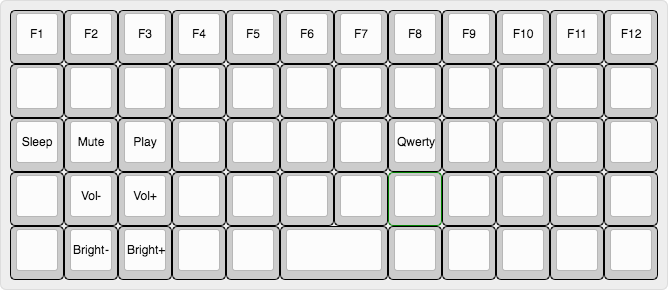
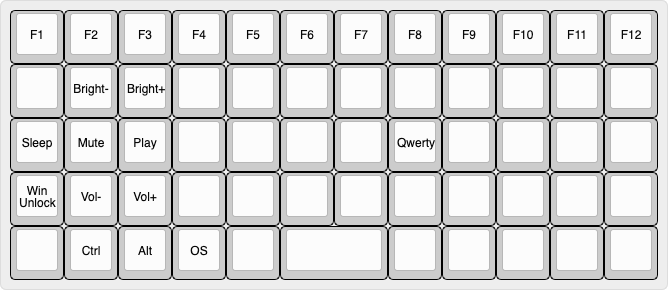
Update keymap

diff --git a/keyboards/preonic/keymaps/nhsieh/keymap.c b/keyboards/preonic/keymaps/nhsieh/keymap.c
@@ -58,19 +58,19 @@ const uint16_t PROGMEM keymaps[][MATRIX_ROWS][MATRIX_COLS] = {
  * |------+------+------+------+------+-------------+------+------+------+------+------|
  * | Del  |      |      |      |      |      |      |      |      |      |      | Bksp |
  * |------+------+------+------+------+-------------+------+------+------+------+------|
- * |      |      |      |      |      |      |      |      |      |      |      | Del  |
+ * | Ins  |      |      |      |      |      |      |      |      |      |      | Del  |
  * |------+------+------+------+------+------|------+------+------+------+------+------|
  * |      |      |      |      |      |      |      |      |      |  ↑   |      |      |
  * |------+------+------+------+------+------+------+------+------+------+------+------|
- * |Keylck|      |      |      |      |             |      |  ←   |  ↓   |  →   |      |
+ * |Keylck| Ctrl | Alt  | GUI  |      |             |      |  ←   |  ↓   |  →   |      |
  * `-----------------------------------------------------------------------------------'
  */
 [_LOWER] = LAYOUT_preonic_grid( \
   _______, _______, _______, _______, _______, _______, _______, _______, _______, _______, _______, _______,  \
   KC_DEL, _______, _______, _______, _______, _______, _______, _______, _______, _______, _______, KC_BSPC,  \
-  _______, _______, _______, _______, _______, _______, _______, _______, _______, _______, _______,KC_DEL,  \
+  KC_INSERT, _______, _______, _______, _______, _______, _______, _______, _______, _______, _______,KC_DEL,  \
   _______, _______, _______, _______, _______, _______, _______, _______, _______, KC_UP, _______, _______,  \
-  KC_LOCK, _______, _______, _______, _______, _______, _______, _______, KC_LEFT, KC_DOWN, KC_RGHT, _______ \
+  KC_LOCK, KC_LCTL, KC_LALT, KC_LGUI, _______, _______, _______, _______, KC_LEFT, KC_DOWN, KC_RGHT, _______ \
 ),
 
 /* Raise
@@ -79,43 +79,41 @@ const uint16_t PROGMEM keymaps[][MATRIX_ROWS][MATRIX_COLS] = {
  * |------+------+------+------+------+------+------+------+------+------+------+------|
  * | Del  |      |      |      |      |      |      |   7  |   8  |   9  |   -  | Bksp |
  * |------+------+------+------+------+-------------+------+------+------+------+------|
- * |      |      |      |      |      |      |      |   4  |   5  |   6  |   +  | Del  |
+ * | Ins  |      |      |      |      |      |      |   4  |   5  |   6  |   +  | Del  |
  * |------+------+------+------+------+------|------+------+------+------+------+------|
  * |      |      |      |      |      |      |      |   1  |   2  |   3  |   =  |      |
  * |------+------+------+------+------+------+------+------+------+------+------+------|
- * |Keylck|WinUnlock||      |      |             |      |   0  |   .  |Enter |      |
+ * |Keylck| Ctrl | Alt  | GUI  |      |             |      |   0  |   .  |Enter |      |
  * `-----------------------------------------------------------------------------------'
  */
 [_RAISE] = LAYOUT_preonic_grid( \
   _______, _______, _______, _______, _______, _______, _______, KC_NLCK, KC_PSLS, KC_PAST, KC_PCMM, _______,  \
   KC_DEL, _______, _______, _______, _______, _______, _______, KC_P7, KC_P8, KC_P9, KC_PMNS, KC_BSPC,  \
-  _______, _______, _______, _______, _______, _______, _______, KC_P4, KC_P5, KC_P6, KC_PPLS, KC_DEL,  \
+  KC_INSERT, _______, _______, _______, _______, _______, _______, KC_P4, KC_P5, KC_P6, KC_PPLS, KC_DEL,  \
   _______, _______, _______, _______, _______, _______, _______, KC_P1, KC_P2, KC_P3, KC_PEQL, _______,  \
-  KC_LOCK, WINDOWS_UNLOCK, _______, _______, _______, _______, _______, _______, KC_P0, KC_PDOT, KC_PENT, _______ \
+  KC_LOCK, KC_LCTL, KC_LALT, KC_LGUI, _______, _______, _______, _______, KC_P0, KC_PDOT, KC_PENT, _______ \
 ),
 
 /* Adjust
  * ,-----------------------------------------------------------------------------------.
  * |  F1  |  F2  |  F3  |  F4  |  F5  |  F6  |  F7  |  F8  |  F9  |  F10 |  F11 |  F12 |
  * |------+------+------+------+------+------+------+------+------+------+------+------|
- * |      |      |      |      |      |      |      |      |      |      |      |      |
+ * |      | Brt- | Brt+ |      |      |      |      |      |      |      |      |      |
  * |------+------+------+------+------+-------------+------+------+------+------+------|
  * |Sleep | Mute | Play |      |      |      |      |Qwerty|      |      |      |      |
  * |------+------+------+------+------+------|------+------+------+------+------+------|
- * |      | Vol- | Vol+ |      |      |      |      |      |      |      |      |      |
+ * |Unlock| Vol- | Vol+ |      |      |      |      |      |      |      |      |      |
  * |------+------+------+------+------+------+------+------+------+------+------+------|
- * |      | Brt- | Brt+ |      |      |             |      |      |      |      |      |
+ * |      | Ctrl | Alt  | GUI  |      |             |      |      |      |      |      |
  * `-----------------------------------------------------------------------------------'
  */
 [_ADJUST] = LAYOUT_preonic_grid( \
   KC_F1,   KC_F2,   KC_F3,   KC_F4,   KC_F5,   KC_F6,   KC_F7,   KC_F8,   KC_F9,   KC_F10,  KC_F11,  KC_F12,  \
-  _______, _______, _______, _______, _______, _______, _______, _______, _______, _______, _______, _______,  \
+  _______, KC_BRID, KC_BRIU, _______, _______, _______, _______, _______, _______, _______, _______, _______,  \
   KC_SLEP, KC_MUTE, KC_MPLY,  _______, _______, _______, _______, QWERTY, _______, _______, _______, _______, \
-  _______, KC_VOLD, KC_VOLU,  _______, _______, _______, _______, _______, _______, _______, _______, _______, \
-  _______, KC_BRID, KC_BRIU, _______, _______, _______, _______, _______, _______, _______, _______, _______  \
+  WINDOWS_UNLOCK, KC_VOLD, KC_VOLU,  _______, _______, _______, _______, _______, _______, _______, _______, _______, \
+  _______, KC_LCTL, KC_LALT, KC_LGUI, _______, _______, _______, _______, _______, _______, _______, _______  \
 )
-
-
 };
 
 bool process_record_user(uint16_t keycode, keyrecord_t *record) {

diff --git a/keyboards/preonic/keymaps/nhsieh/layout/raw.md b/keyboards/preonic/keymaps/nhsieh/layout/raw.md
@@ -13,25 +13,25 @@ http://www.keyboard-layout-editor.com/
 ```
 [{a:7},"","","","","","","","","","","",""],
 ["Del","","","","","","","","","","","Back Space"],
-["","","","","","","","","","","","Del"],
+["Ins","","","","","","","","","","","Del"],
 ["","","","","","","","","","↑","",""],
-["Key Lock","","","","",{w:2},"","","←","↓","→",""]
+["Key Lock","Ctrl","Alt","OS","",{w:2},"","","←","↓","→",""]
 ```
 
 ##Raise
 ```
 [{a:7},"","","","","","","","Num Lock","/","*",",",""],
 ["Del","","","","","","",{a:5},"7\nHome","8\n↑",{a:4},"9\nPgUp",{a:7},"-","Back Space"],
-["","","","","","","",{a:5},"4\n←","5","6\n→",{a:7},"+","Del"],
+["Ins","","","","","","",{a:5},"4\n←","5","6\n→",{a:7},"+","Del"],
 ["","","","","","","",{a:5},"1\nEnd","2\n↓","3\nPgDn",{a:7},"=",""],
-["Key Lock","Win Unlock","","","",{w:2},"","",{a:5},"0\nIns",".\nDel",{a:7},"Enter",""]
+["Key Lock","Ctrl","Alt","OS","",{w:2},"","",{a:5},"0\nIns",".\nDel",{a:7},"Enter",""]
 ```
 
 ##Adjust
 ```
 [{a:7},"F1","F2","F3","F4","F5","F6","F7","F8","F9","F10","F11","F12"],
-["","","","","","","","","","","",""],
+["","Bright-","Bright+","","","","","","","","",""],
 ["Sleep","Mute","Play","","","","","Qwerty","","","",""],
-["","Vol-","Vol+","","","","","","","","",""],
-["","Bright-","Bright+","","",{w:2},"","","","","",""]
+["Win Unlock","Vol-","Vol+","","","","","","","","",""],
+["","Ctrl","Alt","OS","",{w:2},"","","","","",""]
 ```
